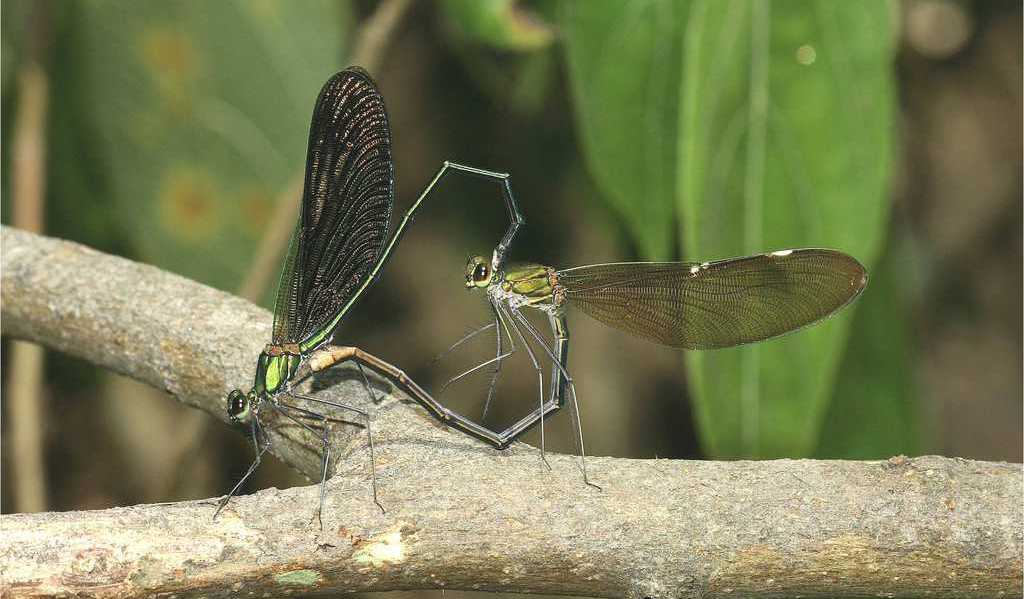
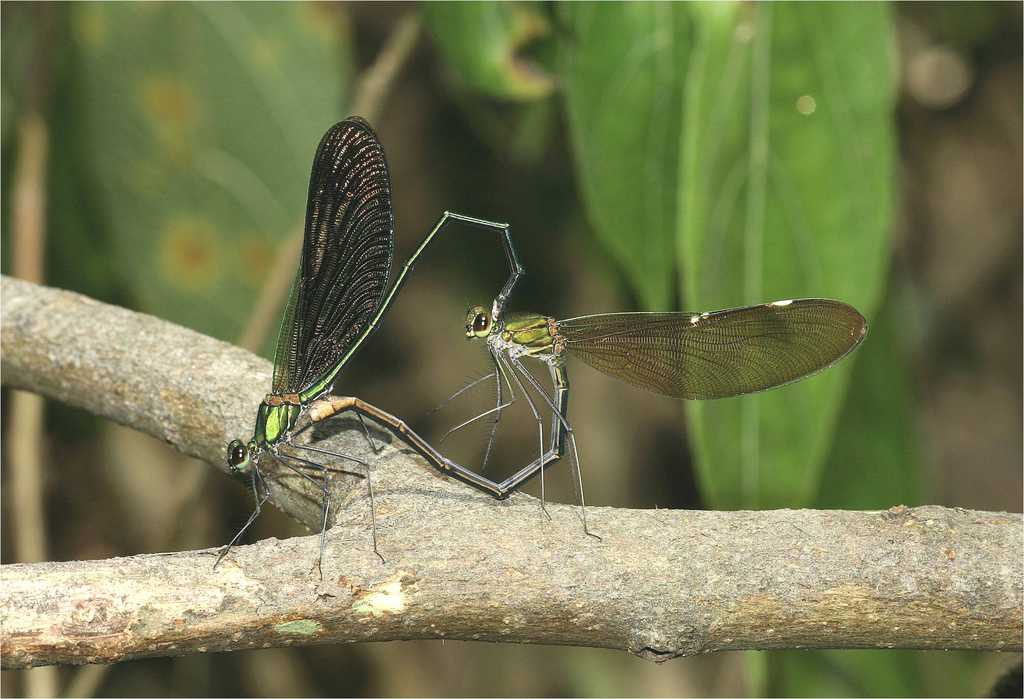
Added species profile image swiper.

diff --git a/src/scripts/views/p_species.js b/src/scripts/views/p_species.js
@@ -3,10 +3,10 @@
  *****************************************************************************/
 define([
     'views/_page',
+    'photoswipe',
     'templates',
-    'd3',
-    'photoswipe'
-], function (Page) {
+    'd3'
+], function (Page, PhotoSwipe) {
     'use strict';
 
     var SpeciesPage = Page.extend({
@@ -61,6 +61,9 @@ define([
             //add Gallery
             this.initGallery();
 
+
+            this.startSwipe();
+
             //add Flight profile
             this.addFlightData();
 
@@ -72,6 +75,107 @@ define([
             $.get(this.model.attributes.map, function(data) {
                 $mapsHolder.append(new XMLSerializer().serializeToString(data.documentElement));
             });
+        },
+
+        startSwipe: function () {
+            var that = this,
+                WIDTH = $('#species').width(),
+                currentImg = 0,
+                maxImages = this.model.get('gallery').length + 1,
+                speed = 500,
+                imgs = null,
+
+                swipeOptions = {
+                    triggerOnTouchEnd: false,
+                    swipeStatus: swipeStatus,
+                    allowPageScroll: "vertical",
+                    threshold: 75
+                };
+
+            var $img = $('#species_gallery .images img');
+            $img.attr('style','width:' + WIDTH);
+
+            var $progressCircles = this.$el.find('.gallery .progress div');
+
+            $(function () {
+                imgs = $('#species_gallery .images');
+                imgs.width(maxImages * WIDTH);
+                imgs.swipe(swipeOptions);
+
+                /**
+                 * Tap handler for touchswipe does not work on Desktop computers -
+                 * it is always fired even if we are swiping.
+                 * Therfore, we disable gallery launch for non touch devices.
+                 */
+                if (app.browser.isMobile()) {
+                    imgs.find('img').on('tap', function (e) {
+                        var id = $(this).data('id');
+                        that.gallery.show(id);
+                    });
+                }
+            });
+
+
+            /**
+             * Catch each phase of the swipe.
+             * move : we drag the div
+             * cancel : we animate back to where we were
+             * end : we animate to the next image
+             */
+            function swipeStatus(event, phase, direction, distance) {
+                //If we are moving before swipe, and we are going L or R in X mode, or U or D in Y mode then drag.
+                if (phase == "move" && (direction == "left" || direction == "right")) {
+                    var duration = 0;
+
+                    if (direction == "left") {
+                        scrollImages((WIDTH * currentImg) + distance, duration);
+                    } else if (direction == "right") {
+                        scrollImages((WIDTH * currentImg) - distance, duration);
+                    }
+
+                } else if (phase == "cancel") {
+                    scrollImages(WIDTH * currentImg, speed);
+                } else if (phase == "end") {
+                    if (direction == "right") {
+                        previousImage();
+                    } else if (direction == "left") {
+                        nextImage();
+                    }
+                }
+            }
+
+            function previousImage() {
+                currentImg = Math.max(currentImg - 1, 0);
+                scrollImages(WIDTH * currentImg, speed);
+                updateCircleProgress(currentImg);
+            }
+
+            function nextImage() {
+                currentImg = Math.min(currentImg + 1, maxImages - 1);
+                scrollImages(WIDTH * currentImg, speed);
+                updateCircleProgress(currentImg);
+            }
+
+            /**
+             * Manually update the position of the imgs on drag
+             */
+            function scrollImages(distance, duration) {
+                imgs.css("transition-duration", (duration / 1000).toFixed(1) + "s");
+
+                //inverse the number we set in the css
+                var value = (distance < 0 ? "" : "-") + Math.abs(distance).toString();
+                imgs.css("transform", "translate(" + value + "px,0)");
+            }
+
+            var updateCircleProgress = function(number) {
+                $progressCircles.each(function () {
+                    if ($(this).data('id') !== number) {
+                        $(this).removeClass('circle-full');
+                    } else {
+                        $(this).addClass('circle-full');
+                    }
+                })
+            }
         },
 
         appendEventListeners: function () {
@@ -287,19 +391,48 @@ define([
          * Initializes the species gallery.
          */
         initGallery: function () {
-            var images = $('#species_gallery a');
+            var images = [],
+                img = {},
+                gallery = this.model.get('gallery'),
+                gallery_authors = this.model.get('gallery_authors'),
+                gallery_sex = this.model.get('gallery_sex'),
+                profile_pic_sex = this.model.get('profile_pic_sex'),
+                profile_pic_author = this.model.get('profile_pic_author');
 
-            if (images.length > 0) {
-                this.gallery = images.photoSwipe({
+            //build image array
+            img = image(this.model.get('profile_pic'), profile_pic_author, profile_pic_sex);
+            images.push(img);
+            for (var i = 0; i < gallery.length; i++) {
+                img = image(gallery[i], gallery_authors[i], gallery_sex[i]);
+                images.push(img);
+            }
+
+            function image (url, author, sex) {
+                return {
+                    url: url,
+                    caption: sex + '  Ⓒ ' + author
+                };
+            }
+
+            this.gallery = PhotoSwipe.attach(images,
+                {
                     jQueryMobile: true,
                     preventSlideshow: true,
                     allowUserZoom: true,
                     loop: true,
                     captionAndToolbarAutoHideDelay: 0,
                     enableMouseWheel: true,
-                    enableKeyboard: true
-                });
-            }
+                    enableKeyboard: true,
+
+                    preventHide: false,
+                    getImageSource: function(obj){
+                        return obj.url;
+                    },
+                    getImageCaption: function(obj){
+                        return obj.caption;
+                    }
+                }
+            );
         }
     });
 

diff --git a/src/data/species.js b/src/data/species.js
@@ -560,26 +560,23 @@ app.data.species = [
     "type": "zygoptera"
   }, 
   {
-    "profile_pic": "images/ischnura_elegans_m_David_Kitching.jpg", 
+    "profile_pic": "images/ischnura_elegans_m_Aiwok.jpg", 
     "description": "Mature males always have a blue spot at the \"tail\" (S8), blue ante-humeral stripes on the thorax and blue eyes. Females vary with at least 5 different colour forms. The thoracic markings and the tail spot are violet in the immature form violacea, but salmon pink thorax and blue spot in the form \"rufescens\". When mature the female may be blue (like the male) in the form \"typica\", olive green thorax and brown spot in the form \"infuscans\" or pale brown thorax and brown spot in the form \"infuscans-obseleta\". Male and female both have bi-coloured pterostigma on the front wings.", 
     "habitat": "Found in a very wide range of lowland habitats including brackish or polluted water where it may be the only species present.", 
     "map": "images/Ischnura_elegans_new_final_.svg", 
     "general": "", 
     "gallery_authors": [
-      "David Kitching", 
       "David Kitching"
     ], 
     "common_name": "Blue-tailed Damselfly", 
-    "confusion_species": "18 and 15.",
+    "confusion_species": "18 and 15.", 
     "gallery_sex": [
-      "FEMALE", 
       "FEMALE"
     ], 
     "gallery": [
-      "images/Ischnura_elegans_f_rufescens_David_Kitching.jpg", 
-      "images/Ischnura_elegans_f_infuscans_David_Kitching.jpg"
+      "images/ischnura_elegans_normal_blue_f_David_Kitching.jpg"
     ], 
-    "profile_pic_author": "David Kitching", 
+    "profile_pic_author": "Aiwok", 
     "profile_pic_sex": "MALE", 
     "colour": {
       "blue": 1, 

diff --git a/src/scripts/views/p_login.js b/src/scripts/views/p_login.js
@@ -175,7 +175,12 @@ define([
          */
         onLoginError: function (xhr, ajaxOptions, thrownError) {
             _log("views.LoginPage: ERROR " + xhr.status + " " + thrownError + ".", log.ERROR);
-            var response = xhr.responseText == "Missing name parameter" ? 'Bad Username or Password' : xhr.responseText;
+            var response = '';
+            if (xhr.responseText == "Missing name parameter" || xhr.responseText.indexOf('Bad') >= 0) {
+              response = 'Bad Username or Password';
+            } else {
+                response = xhr.responseText;
+            }
 
             app.message({message: response});
         },

diff --git a/src/styles/p_species_profile.scss b/src/styles/p_species_profile.scss
@@ -56,3 +56,35 @@ div.taxon {
 .confusion-species a {
   font-weight: normal;
 }
+
+/* Gallery */
+.gallery {
+  position: relative;
+}
+
+.gallery .images {
+  height: 60vw;
+  max-height: 400px;
+  position: relative;
+  overflow: hidden;
+  background-color: #3C3C3C;
+}
+
+.gallery .images img {
+  float: left;
+}
+
+.gallery .progress {
+  width: 100%;
+  position: absolute;
+  bottom: 0;
+  left: 0;
+  margin: 0;
+  padding-left: 45%;
+
+  background-color: rgba(10,10,10,0.3);
+}
+
+.gallery .progress .circle {
+  background: rgba(255,255,255,.25);
+}
